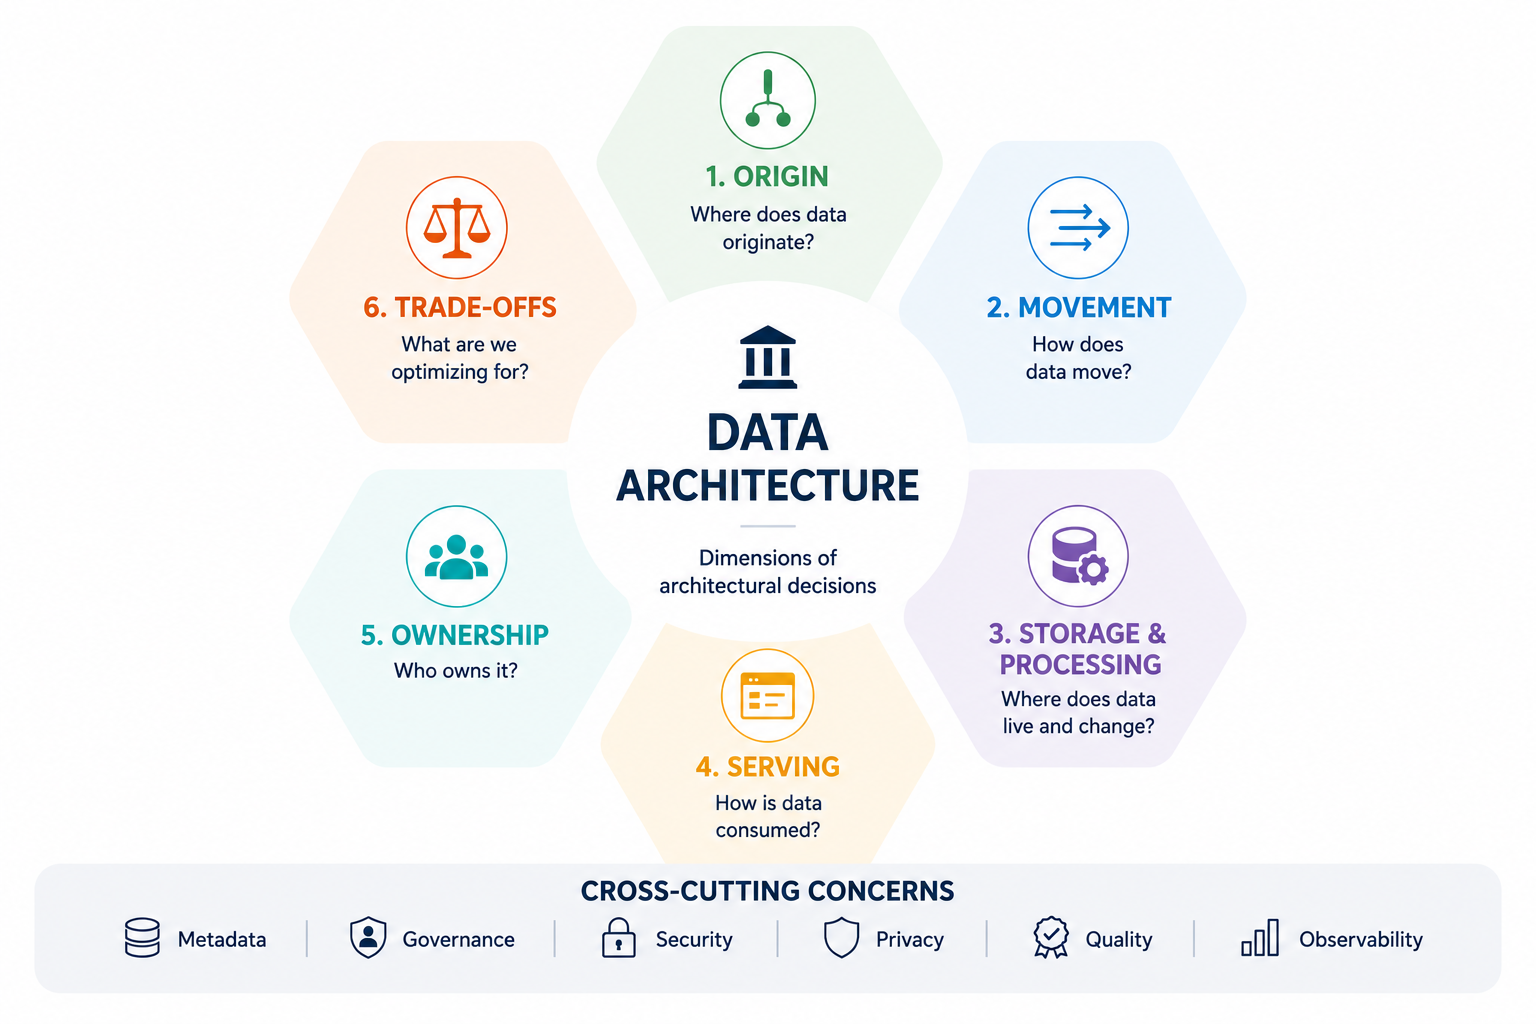
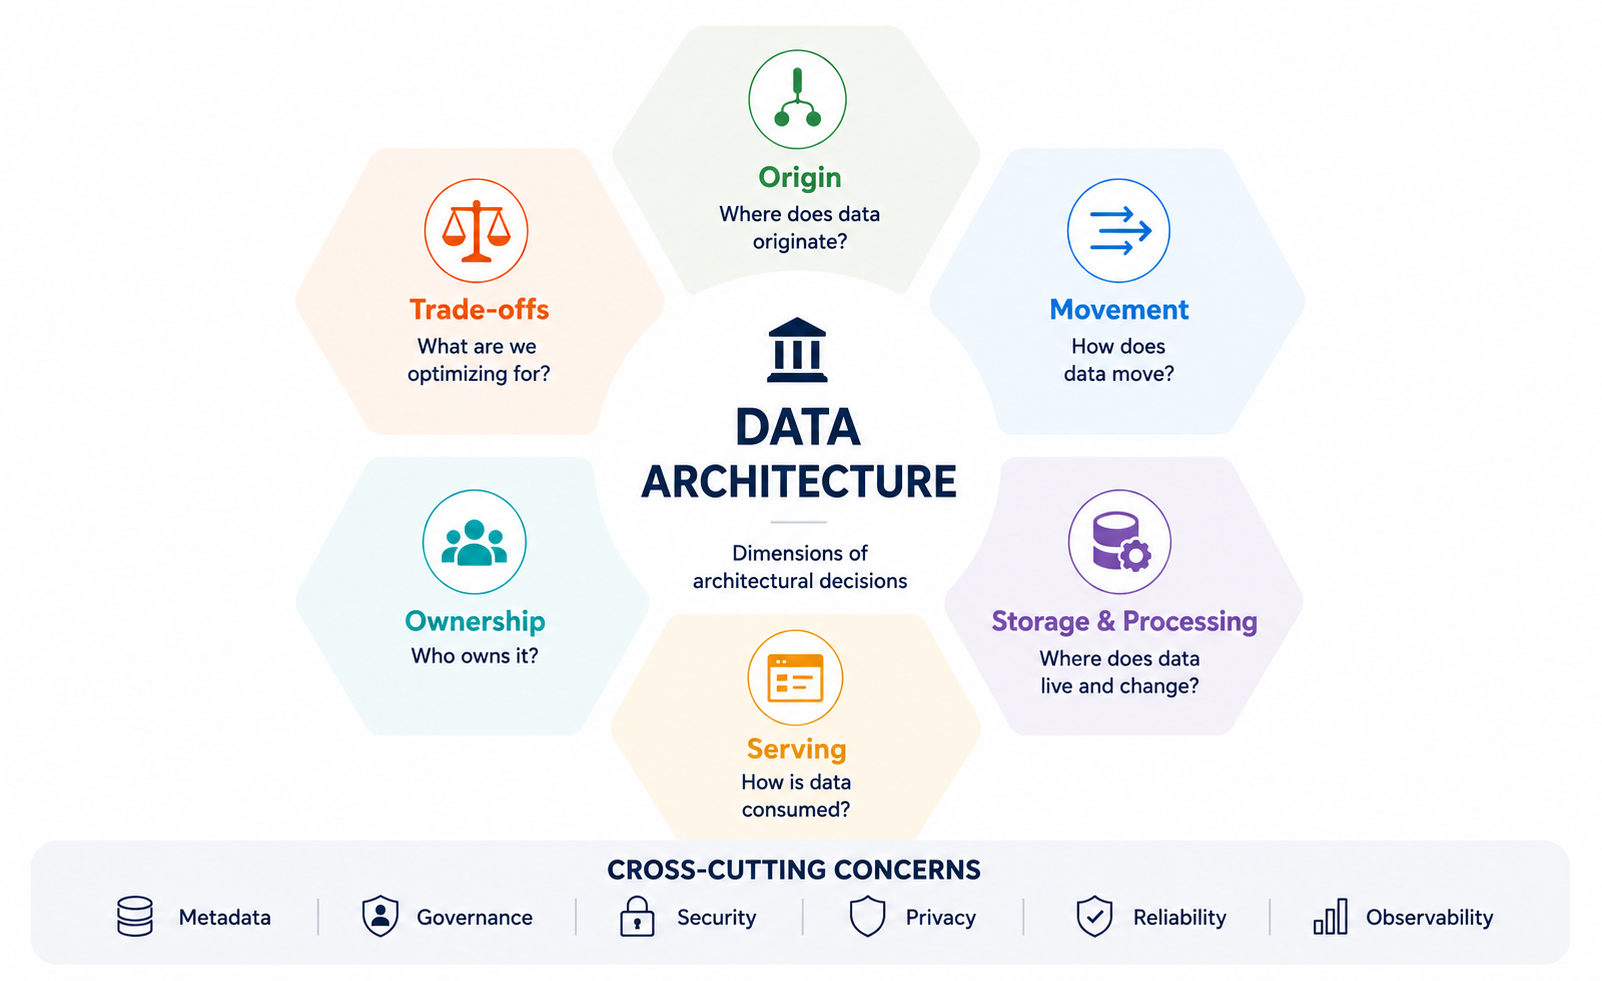
fix: update reliability term in data architecture dimensions prompt

diff --git a/prompts/docs/data/architecture/imagen/data-architecture-dimensions.md b/prompts/docs/data/architecture/imagen/data-architecture-dimensions.md
@@ -8,7 +8,7 @@ description: Hero visual showing six dimensions of data architecture supported b
 
 Create a polished 1672 × 941 pixels (16:9) technical infographic titled exactly **Data Architecture**.
 
-Communicate one clear idea: data architecture requires decisions across six dimensions, while metadata, governance, security, privacy, quality, and observability apply across all of them. Keep the image conceptual, calm, spacious, and immediately understandable.
+Communicate one clear idea: data architecture requires decisions across six dimensions, while metadata, governance, security, privacy, reliability, and observability apply across all of them. Keep the image conceptual, calm, spacious, and immediately understandable.
 
 ## Composition
 
@@ -29,7 +29,7 @@ The six areas must read as parts of one coherent decision framework, not as inde
 
 Place one visually quiet foundation or horizontal layer beneath the six decision areas. Label it **Cross-Cutting Concerns** and include exactly these terms:
 
-**Metadata · Governance · Security · Privacy · Quality · Observability**
+**Metadata · Governance · Security · Privacy · Reliability · Observability**
 
 Use a subtle shared plane, band, or underlay to show that this layer applies across all six dimensions. Do not place the concerns around the perimeter or give them separate icons, definitions, callouts, boxes, or connectors.
 
